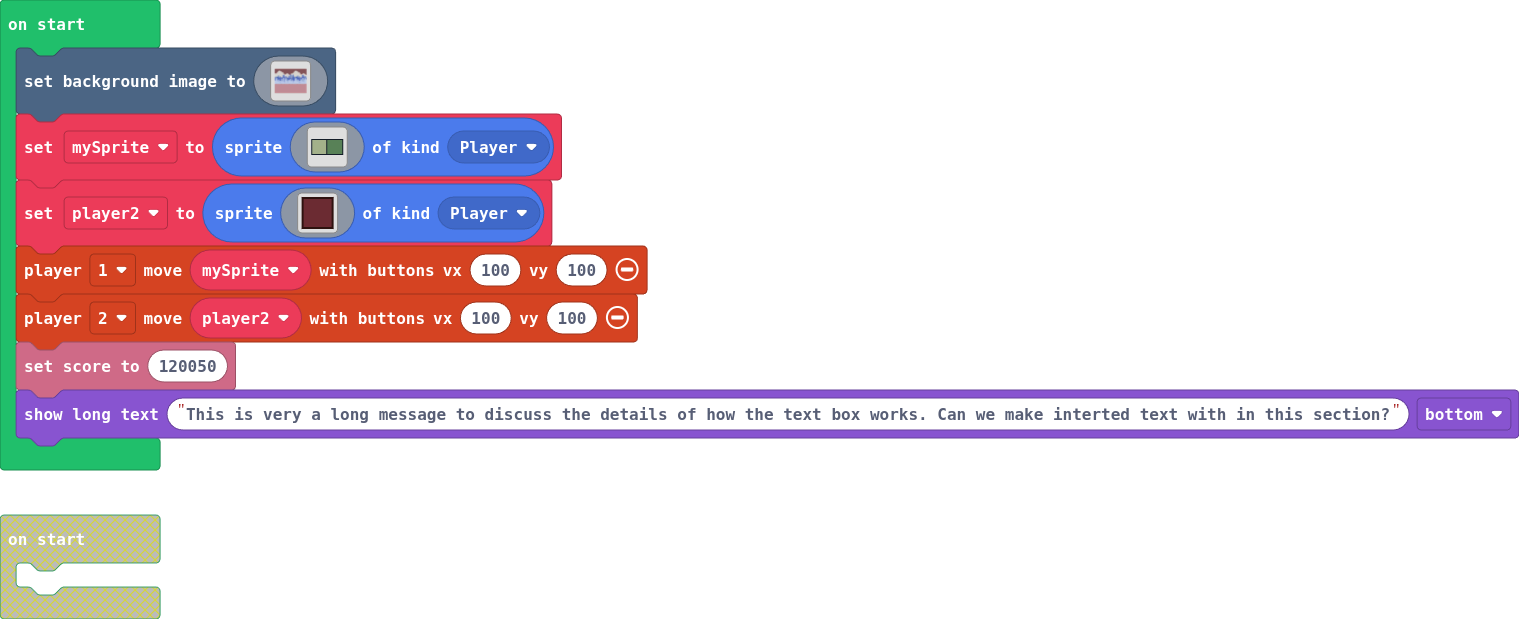
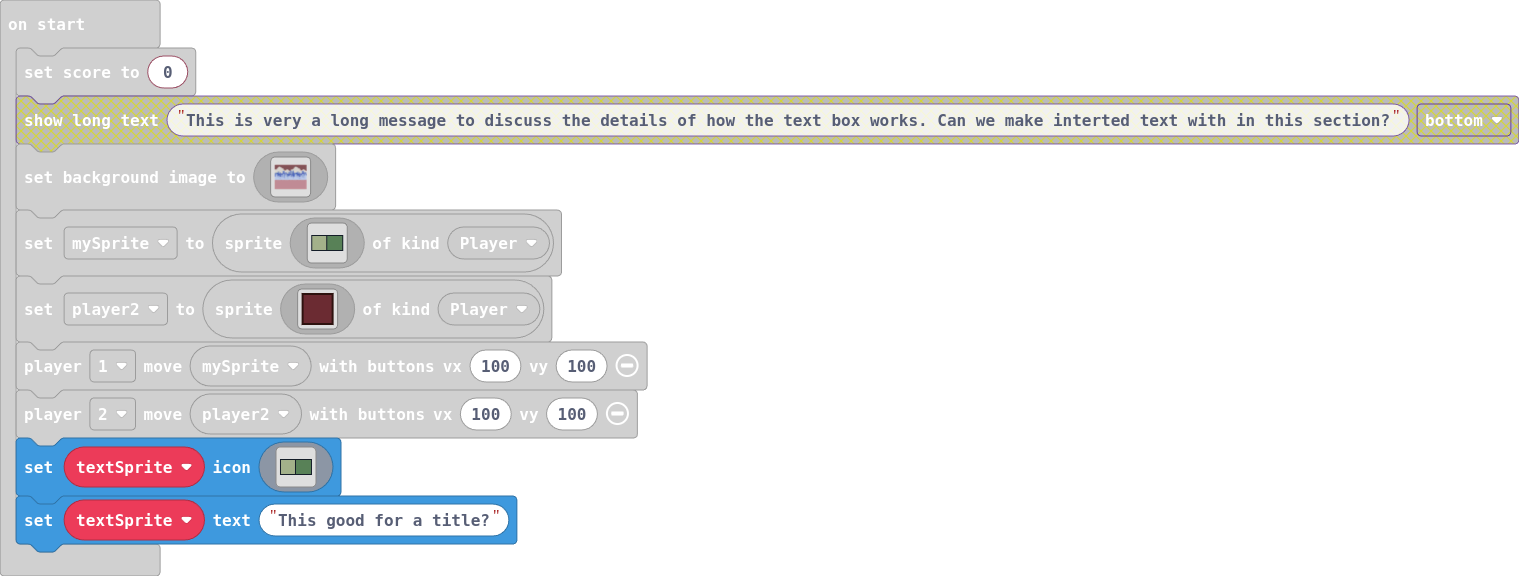
Commit my changes

diff --git a/main.ts b/main.ts
@@ -1,7 +1,9 @@
+let textSprite: TextSprite = null
+info.setScore(0)
 scene.setBackgroundImage(assets.image`cityscape`)
 let mySprite = sprites.create(assets.image`myImage0`, SpriteKind.Player)
 let player2 = sprites.create(assets.image`myImage1`, SpriteKind.Player)
 controller.player1.moveSprite(mySprite, 100, 100)
 controller.player2.moveSprite(player2, 100, 100)
-info.setScore(120050)
-game.showLongText("This is very a long message to discuss the details of how the text box works. Can we make interted text with in this section?", DialogLayout.Bottom)
+textSprite.setIcon(assets.image`myImage0`)
+textSprite.setText("This good for a title?")
